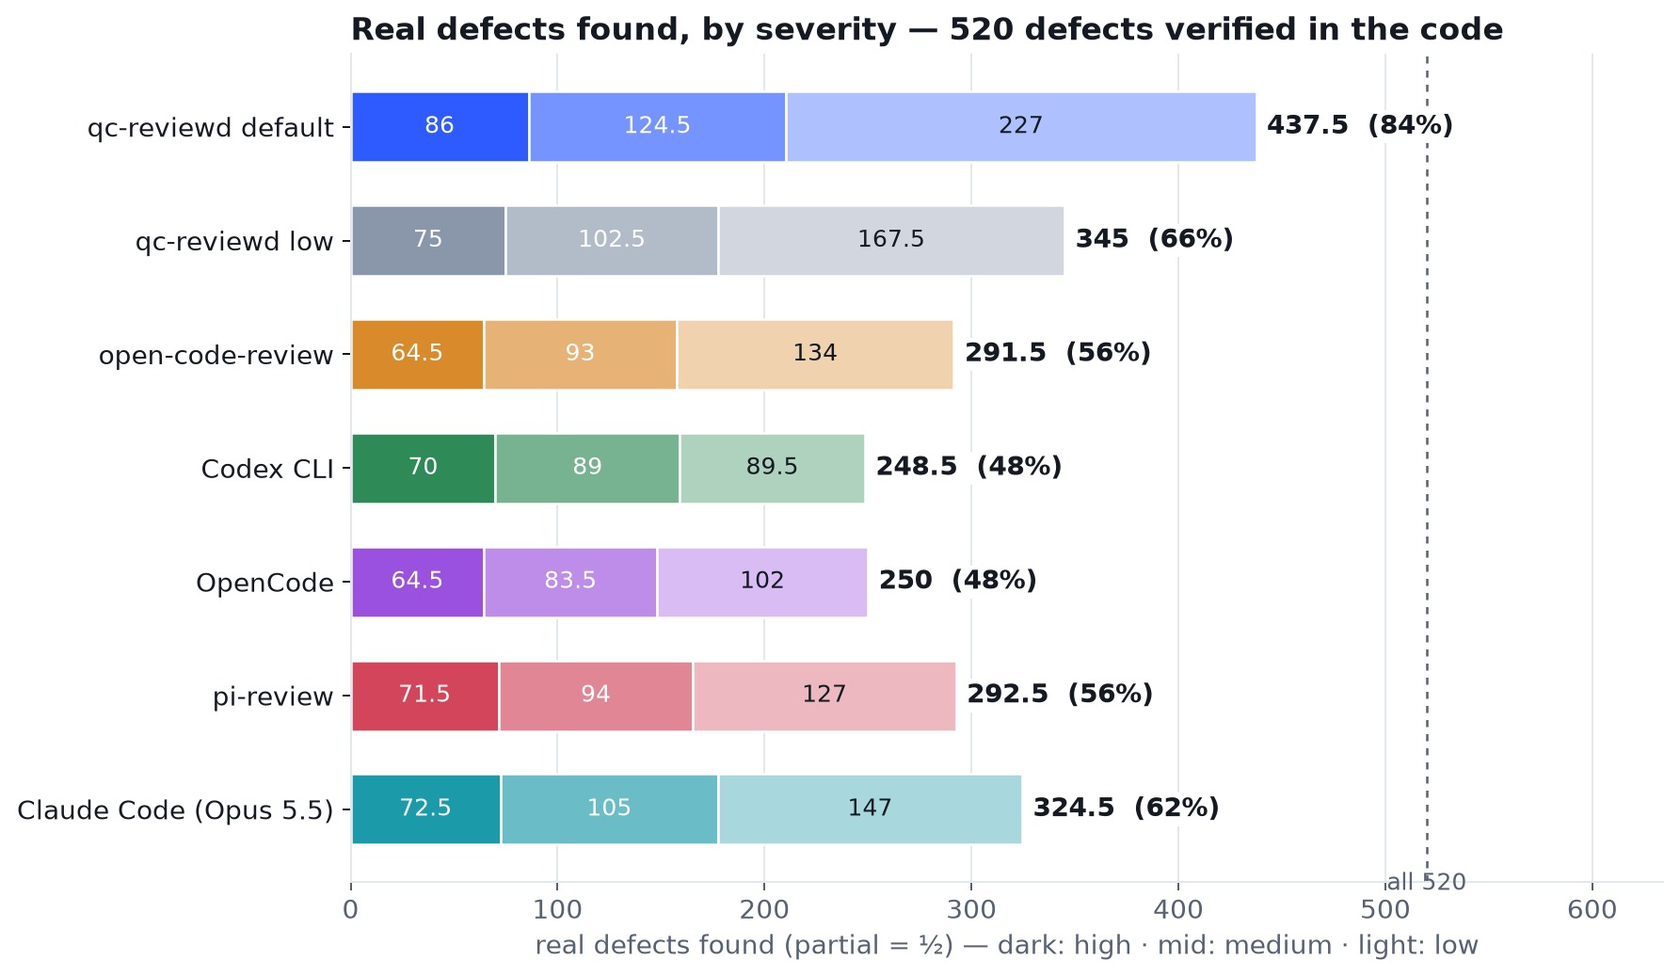
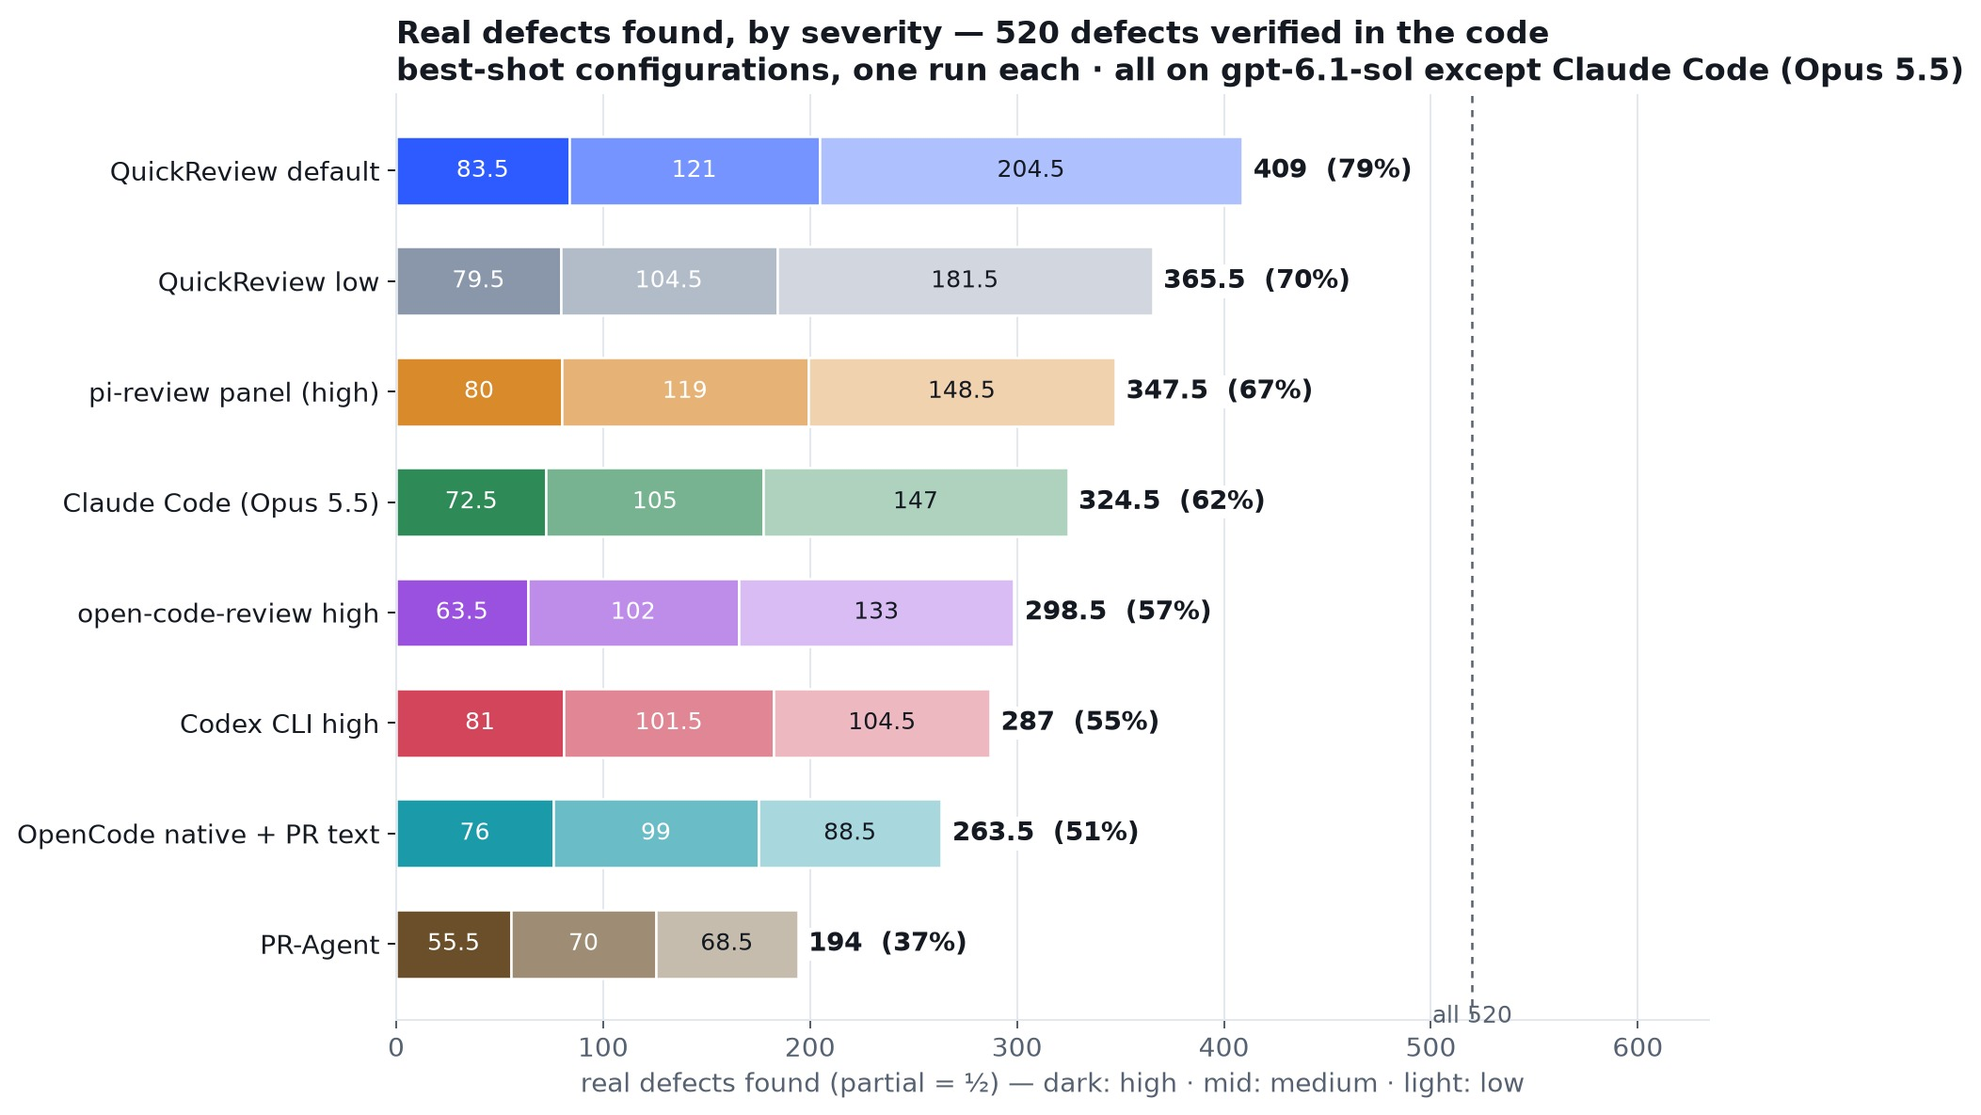
bench: the report leads with the final comparison — best-shot configurations, gpt-6.1-sol, 185 PRs
FULL-BENCHMARK.md is rewritten around the final comparison: every contender
at the best configuration found for it, all on gpt-6.1-sol except Claude Code
(Opus 5.5), on all 185 PRs. Headline, Table 1 (defects) with bootstrap
intervals, Table 2/2a (AACR, with the bot-written references removed) and the
main figure (defects by severity) come first; then how each configuration was
chosen (candidate variants from each tool's own docs and the fairness audit,
the seeded 40-PR selection set, the selection rule and its results on
gpt-6-sol, the move to gpt-6.1-sol with what it took per tool and the per-tool
transfer deltas, the selection advantage measured on the other 145) and the
exact command behind every row. The gpt-6-sol seven-reviewer study, base
model, Copilot, stability, ground truth and cost follow as supporting
material; the pi-review panel discussion is updated to the 185-PR numbers.

bench/aacr/final/ holds the case lists (select40.txt re-derivable with
select40.py --check, other145.txt), the arm lists for compare.py/charts.py,
and the launchers (run-selection.sh, run-final.sh, score.sh) with machine
paths replaced by QCR_BENCH_RUNS_DIR. charts.py gains --suffix and --note,
and numbers.json records each arm's tuned/unseen/independent recall; the
final charts take the plain names, the gpt-6-sol study's are kept as
*-gpt6sol (judge-agreement stays the gpt-6-sol study's, labelled so). The
bench README and the root README summary follow; the PDF is regenerated.

Changed region(s): [[0.0, 0.0, 1.0, 0.9865], [0.9244, 0.894, 0.9552, 0.9557], [0.1849, 0.9249, 0.2157, 0.9557]]

diff --git a/bench/aacr/charts.py b/bench/aacr/charts.py
@@ -22,6 +22,12 @@ variant is its published configuration, and the variant the full comparison
 takes forward is picked by `pick_best` (highest recall, ties to comments
 correct). The command behind the published chart is in FULL-BENCHMARK.md. The "tuned vs unseen" chart splits the cases into the 40
 PRs the review was tuned on (all30+fresh10) and the rest (rest145).
+
+`--suffix -gpt6sol` writes every file as NAME-gpt6sol.jpg (and
+numbers-gpt6sol.json), so an earlier arm set's charts are kept beside the
+current ones; `--note` adds a second title line naming the arm set (model,
+configurations). numbers.json also records each arm's recall on the tuned and
+unseen halves and on the defects the code hunt or an AACR reference raised.
 """
 import argparse, collections, json, os, statistics, sys
 
@@ -91,8 +97,17 @@ def recall(s):
     return sum(s["found"].values()) / max(sum(s["total"].values()), 1)
 
 
+SUFFIX = ""  # --suffix: appended to every file name (e.g. "-gpt6sol"), so a second arm set never overwrites the first
+NOTE = ""  # --note: one line under the headline charts' titles (which arms, which model)
+
+
+def titled(title):
+    return f"{title}\n{NOTE}" if NOTE else title
+
+
 def save(fig, out, name):
-    path = os.path.join(out, name)
+    stem, ext = os.path.splitext(name)
+    path = os.path.join(out, stem + SUFFIX + ext)
     fig.savefig(path, dpi=180, bbox_inches="tight", pil_kwargs={"quality": 92})
     plt.close(fig)
     print("wrote", os.path.relpath(path))
@@ -121,7 +136,7 @@ def chart_severity(arms, out):
     ax.grid(axis="x", color=GRID)
     ax.set_axisbelow(True)
     ax.set_xlabel("real defects found (partial = ½) — dark: high · mid: medium · light: low")
-    ax.set_title(f"Real defects found, by severity — {n} defects verified in the code")
+    ax.set_title(titled(f"Real defects found, by severity — {n} defects verified in the code"))
     save(fig, out, "defects-by-severity.jpg")
 
 
@@ -138,7 +153,7 @@ def chart_high(arms, out):
     ax.set_xlim(0, n * 1.25)
     ax.set_xticks([])
     ax.spines["bottom"].set_visible(False)
-    ax.set_title("High-severity defects caught (merge-blocking)")
+    ax.set_title(titled("High-severity defects caught (merge-blocking)"))
     save(fig, out, "high-severity.jpg")
 
 
@@ -156,7 +171,7 @@ def chart_cost(arms, out):
     ax.xaxis.set_major_formatter(matplotlib.ticker.FormatStrFormatter("$%.2f"))
     ax.grid(color=GRID)
     ax.set_axisbelow(True)
-    ax.set_title("Cost against coverage")
+    ax.set_title(titled("Cost against coverage"))
     save(fig, out, "cost-vs-coverage.jpg")
 
 
@@ -176,7 +191,7 @@ def chart_two_scores(arms, out):
         ax.set_title(title, fontsize=12)
     axes[0].set_yticks(range(len(arms)), [a[0] for a in arms])
     axes[0].invert_yaxis()
-    fig.suptitle("Same reviews, two scores", x=0.01, y=1.0, ha="left", va="bottom", fontweight="bold", fontsize=14)
+    fig.suptitle(titled("Same reviews, two scores"), x=0.01, y=1.0, ha="left", va="bottom", fontweight="bold", fontsize=14)
     fig.tight_layout(rect=(0, 0, 1, 0.97))
     save(fig, out, "two-scores.jpg")
 
@@ -220,7 +235,7 @@ def chart_split(arms_split, out):
     ax.xaxis.set_major_formatter(matplotlib.ticker.PercentFormatter())
     ax.grid(axis="x", color=GRID)
     ax.set_axisbelow(True)
-    ax.set_title("Holds on unseen PRs — ○ 40 tuning PRs  ● 145 unseen PRs")
+    ax.set_title(titled("Holds on unseen PRs — ○ 40 tuning PRs  ● 145 unseen PRs"))
     save(fig, out, "tuned-vs-unseen.jpg")
 
 
@@ -249,7 +264,7 @@ def chart_overview(arms, out):
     for ax in axes[1:]:
         ax.invert_yaxis()
     fig.tight_layout(rect=(0, 0, 1, 0.93))
-    fig.suptitle(f"Code review benchmark — AACR-Bench v1.0, {len(CASES)} PRs, 10 languages", x=0.01, y=0.99,
+    fig.suptitle(titled(f"Code review benchmark — AACR-Bench v1.0, {len(CASES)} PRs, 10 languages"), x=0.01, y=0.99,
                  ha="left", va="top", fontweight="bold", fontsize=15)
     save(fig, out, "overview.jpg")
 
@@ -289,7 +304,7 @@ def chart_independent(names, colors, all_r, ind_r, n_all, n_ind, out):
     ax.xaxis.set_major_formatter(matplotlib.ticker.PercentFormatter())
     ax.grid(axis="x", color=GRID)
     ax.set_axisbelow(True)
-    ax.set_title(f"Share found — light: all {n_all} defects; dark: the {n_ind} that the code hunt or an AACR reference also found (in the key without any reviewer)",
+    ax.set_title(titled(f"Share found — light: all {n_all} defects; dark: the {n_ind} that the code hunt or an AACR reference also found (in the key without any reviewer)"),
                  fontsize=11)
     save(fig, out, "independent-defects.jpg")
 
@@ -390,7 +405,7 @@ CASES = {}
 
 
 def main():
-    global CASES
+    global CASES, SUFFIX, NOTE
     ap = argparse.ArgumentParser(description=__doc__.split("\n")[0])
     ap.add_argument("--cases", required=True, help="compare.py --cases syntax")
     ap.add_argument("--tuned", default="all30+fresh10", help="the tuning PRs, for the split chart")
@@ -403,8 +418,12 @@ def main():
                     help="draw only config-sensitivity.jpg (+ config-sensitivity.json): arms are TOOL|VARIANT=runs, "
                          "a tool's first variant is its published configuration")
     ap.add_argument("--reference", default="QuickReview", help="with --sensitivity: the tool drawn as reference lines")
+    ap.add_argument("--suffix", default="", help="appended to every output file name (charts and numbers.json), "
+                    "e.g. -gpt6sol, so a second arm set is kept beside the first")
+    ap.add_argument("--note", default="", help="a second title line on the headline charts (e.g. which model)")
     ap.add_argument("arms", nargs="+", help="NAME=run[,run...]")
     a = ap.parse_args()
+    SUFFIX, NOTE = a.suffix, a.note
     os.makedirs(a.out, exist_ok=True)
     CASES = compare.cases_for(a.cases)
     if a.sensitivity:
@@ -420,7 +439,7 @@ def main():
             data[tool] = [{"variant": v, "published": i == 0, "selected": v == best, "recall": round(recall(st), 4),
                            **{k: st[k] for k in ("found", "total", "correct", "usd", "median_min", "aacr_recall", "aacr_precision")}}
                           for i, (v, st) in enumerate(variants)]
-        path = os.path.join(a.out, "config-sensitivity.json")
+        path = os.path.join(a.out, f"config-sensitivity{SUFFIX}.json")
         json.dump({"cases": sorted(CASES), "judge": a.judge_model, "arms": [spec for spec in a.arms], "tools": data},
                   open(path, "w"), indent=1)
         print("wrote", os.path.relpath(path))
@@ -457,12 +476,17 @@ def main():
             p = x.get("provenance") or {}
             if p.get("hunt") or p.get("dataset_refs"):
                 indep.append((iid, x["id"]))
-    chart_independent(names, colors, [defect_recall(a.runs_dir, r, CASES, a.judge_model, alld) for r in run_lists],
-                      [defect_recall(a.runs_dir, r, CASES, a.judge_model, indep) for r in run_lists],
-                      len(alld), len(indep), a.out)
-    summary = {name: {"recall": round(recall(s), 4), **{k: s[k] for k in ("found", "total", "usd", "aacr_recall", "aacr_precision", "correct")}} for name, _, s in arms}
-    json.dump({"cases": len(CASES), "arms": summary}, open(os.path.join(a.out, "numbers.json"), "w"), indent=1)
-    print("wrote", os.path.relpath(os.path.join(a.out, "numbers.json")))
+    all_r = [defect_recall(a.runs_dir, r, CASES, a.judge_model, alld) for r in run_lists]
+    ind_r = [defect_recall(a.runs_dir, r, CASES, a.judge_model, indep) for r in run_lists]
+    chart_independent(names, colors, all_r, ind_r, len(alld), len(indep), a.out)
+    summary = {name: {"recall": round(recall(s), 4), **{k: s[k] for k in ("found", "total", "usd", "aacr_recall", "aacr_precision", "correct")},
+                      "recall_tuned": round(sp[2] / 100, 4), "recall_unseen": round(sp[3] / 100, 4),
+                      "recall_independent": round(ir / 100, 4)}
+               for (name, _, s), sp, ir in zip(arms, split, ind_r)}
+    path = os.path.join(a.out, f"numbers{SUFFIX}.json")
+    json.dump({"cases": len(CASES), "judge": a.judge_model, "independent_defects": len(indep),
+               "arms_spec": list(a.arms), "arms": summary}, open(path, "w"), indent=1)
+    print("wrote", os.path.relpath(path))
 
 
 if __name__ == "__main__":

diff --git a/bench/aacr/final/select40.py b/bench/aacr/final/select40.py
@@ -1,0 +1,40 @@
+#!/usr/bin/env python3
+"""The 40-PR selection set of the best-shot study, and its 145-PR complement.
+
+    python3 bench/aacr/final/select40.py            # print both specs (arm.sh --cases syntax)
+    python3 bench/aacr/final/select40.py --check    # verify select40.txt / other145.txt
+
+The rule, fixed before any run: sort rest145's PRs by
+sha1("fairness-2026-09-30|" + instance_id) and take the first 40. The other
+145 are every other PR of the 185 (smoke10, dev10, holdout10, fresh10 and the
+rest of rest145), in the order arm.sh was given them.
+"""
+import hashlib, json, os, sys
+
+HERE = os.path.dirname(os.path.abspath(__file__))
+SETS = os.path.join(HERE, "..", "sets")
+SEED = "fairness-2026-09-30|"
+
+
+def ids(name):
+    return [c["instance_id"] for c in json.load(open(os.path.join(SETS, f"{name}.json")))["cases"]]
+
+
+def specs():
+    rest = ids("rest145")
+    pick = sorted(rest, key=lambda i: hashlib.sha1((SEED + i).encode()).hexdigest())[:40]
+    chosen = set(pick)
+    groups = [f"{s}:{','.join(ids(s))}" for s in ("smoke10", "dev10", "holdout10", "fresh10")]
+    groups.append("rest145:" + ",".join(i for i in rest if i not in chosen))
+    return "rest145:" + ",".join(pick), "+".join(groups)
+
+
+if __name__ == "__main__":
+    a, b = specs()
+    if "--check" in sys.argv:
+        ok = open(os.path.join(HERE, "select40.txt")).read().strip() == a \
+            and open(os.path.join(HERE, "other145.txt")).read().strip() == b
+        print("select40.txt and other145.txt match the rule" if ok else "MISMATCH")
+        sys.exit(0 if ok else 1)
+    print(a)
+    print(b)

diff --git a/bench/aacr/README.md b/bench/aacr/README.md
@@ -14,62 +14,73 @@ Background and the fairness caveats: `docs/open-code-review-comparison.md`
 
 ## Results
 
-![Code review benchmark — overview](charts/overview.jpg)
+![Real defects found, by severity — final comparison](charts/defects-by-severity.jpg)
 
-The whole benchmark: 185 runnable PRs, 520 real defects and 1,418 AACR
-references, with seven reviewers. The reviewers are:
+The final comparison (2026-10-01): 185 runnable PRs, 520 real defects and
+1,418 AACR references, eight reviewers, each third-party tool at the best
+configuration found for it, all on gpt-6.1-sol except Claude Code (Opus 5.5):
 
-- quickreviewd `default` and `low`;
-- open-code-review;
-- Codex CLI;
-- OpenCode;
-- pi-review;
-- Claude Code.
+| Reviewer | Configuration | Defects found | Recall | High (90) | Comments correct | $ / PR | AACR F1 |
+|---|---|---|---|---|---|---|---|
+| **QuickReview default** | `default` preset | **409** | **79%** | **83.5** | **95%** | $1.36 | **12.5%** |
+| QuickReview low | `low` preset | 365.5 | 70% | 79.5 | 94% | $0.88 | 11.5% |
+| pi-review 0.18.0 | 3-reviewer panel, thinking high | 347.5 | 67% | 80 | 89% | $0.27 | 8.5% |
+| Claude Code 2.1.283 | `/code-review`, Opus 5.5, as published | 324.5 | 62% | 72.5 | 81% | $0.20 | 8.9% |
+| open-code-review 1.3.1 | effort high | 298.5 | 57% | 63.5 | 86% | $0.53 | 11.6% |
+| Codex CLI 0.159.2 | effort high | 287 | 55% | 81 | 93% | $0.14 | 7.8% |
+| OpenCode 1.18.33 | native provider + PR text | 263.5 | 51% | 76 | 93% | $0.17 | 6.9% |
+| PR-Agent 0.46.0 | shipped defaults | 194 | 37% | 55.5 | 76% | $0.07 | 9.4% |
 
-Every review was scored by two defect judges (gpt-6-sol high and Claude
-Opus 5.5). The two come from different model families and give the same
-verdict on 98.7% of reviewer-defect pairs, so the grading does not depend on
-which family judges; the answer key rests on its own verification. Numbers,
-method and caveats are in
-[`FULL-BENCHMARK.md`](FULL-BENCHMARK.md); how to read the two metrics is in
-[`METRICS.md`](METRICS.md). How quickreviewd does on other base models
-(gpt-6.1-sol, gpt-6-luna, Claude Opus 5.5) is in the Base model section of FULL-BENCHMARK.
-Charts, all in `charts/`:
+The configurations were chosen per tool, on gpt-6-sol, on a seeded 40-PR
+subset (`final/select40.txt`: highest defect recall, ties to comments
+correct) and then applied unchanged on gpt-6.1-sol; one run per reviewer, one
+defect judge (gpt-6-sol, high). Numbers, how each configuration was chosen,
+the exact command behind every row, and the caveats are in
+[`FULL-BENCHMARK.md`](FULL-BENCHMARK.md); the launchers are in `final/`;
+how to read the two metrics is in [`METRICS.md`](METRICS.md). The earlier
+seven-reviewer study with every tool as shipped on gpt-6-sol, graded by two
+judges from different model families (98.7% agreement), and the base-model
+runs (gpt-6.1-sol, gpt-6-luna, Claude Opus 5.5) are in FULL-BENCHMARK's
+Supporting material. Charts, all in `charts/` (the final comparison under
+the plain names; the gpt-6-sol study under `-gpt6sol`):
 
 | Chart | Shows |
 |---|---|
+| [`defects-by-severity.jpg`](charts/defects-by-severity.jpg) | the main figure: real defects found, split high / medium / low |
 | [`overview.jpg`](charts/overview.jpg) | defects found, high-severity caught, AACR recall — the one-image summary |
-| [`defects-by-severity.jpg`](charts/defects-by-severity.jpg) | real defects found, split high / medium / low |
 | [`high-severity.jpg`](charts/high-severity.jpg) | merge-blocking defects caught, of 90 |
 | [`cost-vs-coverage.jpg`](charts/cost-vs-coverage.jpg) | $ per PR against share of defects found |
 | [`two-scores.jpg`](charts/two-scores.jpg) | the same reviews on our judge vs AACR's metric |
-| [`reference-quality.jpg`](charts/reference-quality.jpg) | what AACR's reference comments are, hand-checked against the code |
 | [`tuned-vs-unseen.jpg`](charts/tuned-vs-unseen.jpg) | the 40 tuning PRs vs the 145 never-seen ones |
-| [`judge-agreement.jpg`](charts/judge-agreement.jpg) | share of defects found under each of the two judges (gpt-6-sol high, Claude Opus 5.5) |
 | [`independent-defects.jpg`](charts/independent-defects.jpg) | share found on all 520 defects vs on the 369 the code hunt or an AACR reference raised (in the key without any reviewer's comment) |
-| [`config-sensitivity.jpg`](charts/config-sensitivity.jpg) | per tool, recall and $/PR of the published configuration vs each variant run on 40 PRs (FULL-BENCHMARK, Best-shot configurations); drawn by `charts.py --sensitivity` |
+| [`reference-quality.jpg`](charts/reference-quality.jpg) | what AACR's reference comments are, hand-checked against the code |
+| [`judge-agreement.jpg`](charts/judge-agreement.jpg) | gpt-6-sol study only: share of defects found under each of the two judges (gpt-6-sol high, Claude Opus 5.5) |
+| [`config-sensitivity.jpg`](charts/config-sensitivity.jpg) | the selection step: per tool, recall and $/PR of the published configuration vs each variant run on the 40 PRs; drawn by `charts.py --sensitivity` |
+| `*-gpt6sol.jpg` | the same charts for the gpt-6-sol study (seven reviewers as shipped) |
 
-`numbers.json` holds the headline figures behind the charts; `config-sensitivity.json` the per-variant figures behind `config-sensitivity.jpg`.
+`numbers.json` holds the headline figures behind the charts (with each arm's
+recall on the tuned and unseen halves and on the independent subset),
+`numbers-gpt6sol.json` the gpt-6-sol study's; `config-sensitivity.json` the
+per-variant figures behind `config-sensitivity.jpg`.
 
 Regenerate after a run. Every number comes from the judge and harness files
 through `compare.py`'s scoring, and adding a reviewer is one more
 `NAME=runs`. The runs directory is `$QCR_BENCH_RUNS_DIR`, defaulting to
-`~/qcr-bench-runs/runs` when it exists.
-`--second-judge` adds the agreement chart:
+`~/qcr-bench-runs/runs` when it exists. `final/score.sh`
+prints every final table and redraws both chart sets:
 
 ```sh
-uv run bench/aacr/charts.py --cases all30+fresh10+rest145 --second-judge claude-opus-5-5 \
-  "quickreviewd default=b40-smoke10,b40-dev10,b40-holdout10,b40-fresh10,all-default-rest145" \
-  "quickreviewd low=all-low-smoke10,all-low-dev10,all-low-holdout10,all-low-fresh10,all-low-rest145" \
-  "open-code-review=b40ocr-smoke10,b40ocr-dev10,b40ocr-holdout10,b40ocr-fresh10,all-ocr-rest145" \
-  "Codex CLI=all-codex-smoke10,all-codex-dev10,all-codex-holdout10,all-codex-fresh10,all-codex-rest145,all-codex-c1-rest145,all-codex-c2-rest145,all-codex-c3-rest145,all-codex-c4-rest145" \
-  "OpenCode=all-opencode-smoke10,all-opencode-dev10,all-opencode-holdout10,all-opencode-fresh10,all-opencode-rest145,all-opencode-c1-rest145,all-opencode-c2-rest145,all-opencode-c3-rest145,all-opencode-c4-rest145" \
-  "pi-review=all-pireview-smoke10,all-pireview-dev10,all-pireview-holdout10,all-pireview-fresh10,all-pireview-c1-rest145,all-pireview-c2-rest145,all-pireview-c3-rest145,all-pireview-c4-rest145" \
-  "Claude Code (Opus 5.5)=all-claude-smoke10,all-claude-dev10,all-claude-holdout10,all-claude-fresh10,all-claude-c1-rest145,all-claude-c2-rest145,all-claude-c3-rest145,all-claude-c4-rest145"
+mapfile -t ARMS < bench/aacr/final/arms.txt
+uv run bench/aacr/compare.py --cases all30+fresh10+rest145 --exclude-refs bench/aacr/bot_references.json "${ARMS[@]}"
+uv run bench/aacr/charts.py --cases all30+fresh10+rest145 --note "best-shot configurations, one run each · all on gpt-6.1-sol except Claude Code (Opus 5.5)" "${ARMS[@]}"
+mapfile -t SOL < bench/aacr/final/arms-gpt6sol.txt
+uv run bench/aacr/charts.py --cases all30+fresh10+rest145 --suffix=-gpt6sol --note "…" "${SOL[@]}"
 ```
 
-The same `NAME=runs` arguments work for `compare.py`, which prints both
-tables. Add `--judge-model claude-opus-5-5` for the second judge.
+`--second-judge claude-opus-5-5` adds the judge-agreement chart (it needs
+arms the second judge graded: the gpt-6-sol study's). The same `NAME=runs`
+arguments work for `compare.py`; add `--judge-model claude-opus-5-5` for the
+second judge.
 
 ## Testing a review change (the defect benchmark loop)
 

diff --git a/README.md b/README.md
@@ -112,33 +112,35 @@ reviewer memory engine.
 
 ## How well it finds bugs
 
-![Code review benchmark — AACR-Bench v1.0, 185 PRs](bench/aacr/charts/overview.jpg)
+![Real defects found, by severity — AACR-Bench v1.0, 185 PRs](bench/aacr/charts/defects-by-severity.jpg)
 
 On all 185 runnable PRs of [AACR-Bench](https://github.com/alibaba/aacr-bench)
-(10 languages), the default review finds **84% of 520 real defects verified in
-the code, including 86 of the 90 merge-blocking ones**, and 86% of what it says
-is true.
+(10 languages), with every other reviewer at the best configuration we found
+for it and every OpenAI-based reviewer on the same model (gpt-6.1-sol), the
+default review finds **79% of 520 real defects verified in the code, including
+83.5 of the 90 merge-blocking ones**, and 95% of what it says is true.
 
-The other six reviewers find between 48% and 66% of the defects:
+The other reviewers find between 37% and 70% of the defects:
 
-- quickreviewd's own `low` preset: 66%;
+- QuickReview's own `low` preset: 70%;
+- pi-review's 3-reviewer panel: 67%;
 - Claude Code on Opus 5.5: 62%;
-- open-code-review: 56%;
-- pi-review: 56%;
-- Codex CLI: 48%;
-- OpenCode: 48%.
+- open-code-review at high effort: 57%;
+- Codex CLI at high effort: 55%;
+- OpenCode on its native provider, with the PR text: 51%;
+- PR-Agent: 37%.
 
-A second judge from a different model family (Claude Opus 5.5) gives the same
-recall for every reviewer. The two judges agree on 98.7% of per-defect
-verdicts, so the scores are not an artifact of one model family's grading;
-the answer key itself rests on its verification. On the 369 defects that would be in the answer key
-without any reviewer's comment, the default finds 86%. The default costs more
-per PR ($1.71 at list prices, against $0.11–$0.83 for the others).
+The lead is in medium- and low-severity defects: on the high-severity ones
+Codex CLI (81) and pi-review's panel (80) are statistically level with the
+default. The configurations were chosen on a seeded 40-PR subset and the
+order holds on the 145 PRs not used for the choice. The default costs more
+per PR ($1.36 at list prices, against $0.07–$0.53 for the others).
 
 On the benchmark's own reference-comment metric every reviewer scores between
-4% and 12% recall; most of those references are not real problems.
+4% and 11% recall; most of those references are not real problems.
 
-Full results, charts and method: [`bench/aacr/FULL-BENCHMARK.md`](bench/aacr/FULL-BENCHMARK.md).
+Full results, how each configuration was chosen, the exact commands, charts
+and caveats: [`bench/aacr/FULL-BENCHMARK.md`](bench/aacr/FULL-BENCHMARK.md).
 
 ## How a review runs
 
